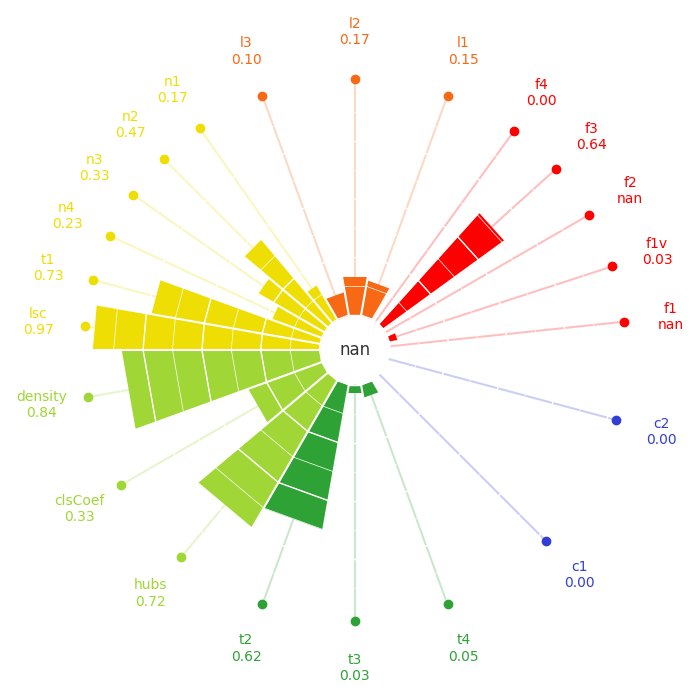
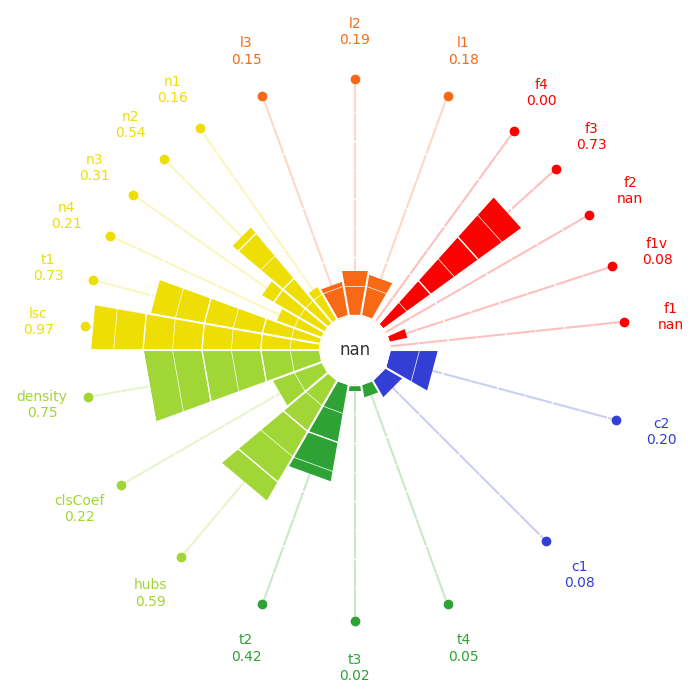
problexity experiments

diff --git a/problexity_test.py b/problexity_test.py
@@ -2,6 +2,7 @@ import problexity as px
 import matplotlib.pyplot as plt
 import os
 import pandas as pd
+import numpy as np
 
 
 # WL - MAV, 1,4,5 
@@ -35,14 +36,15 @@ y = dataset.iloc[:, -1].values.astype(int)
 # exit()
 
 # Initialize CoplexityCalculator with default parametrization
-cc = px.ComplexityCalculator()
+cc = px.ComplexityCalculator(metrics='f1', 
+                             colors=['#FD0100', '#F76915', '#EEDE04', '#A0D636', '#2FA236', '#333ED4'],
+                             ranges={'FB': 5, 'LR': 3, 'NB': 6, 'NE': 3, 'DM': 3, 'CI': 2},
+                             weights=np.ones((22)))
 
 # Fit model with data
 cc.fit(X,y)
-print(f"Complexity{cc.complexity}\n")
-print(f"Metrics{cc._metrics()}\n")
-print(f"Score{cc.score()}\n")
-print(f"Report{cc.report()}\n")
+# print(f"Report: \n{cc.report()}\n")
+print(f"Met: {cc._metrics()}\n")
 cc.plot(fig, (1,1,1))
 
 plt.tight_layout()
